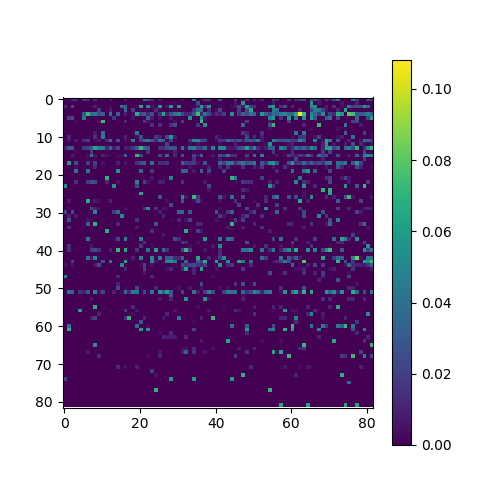
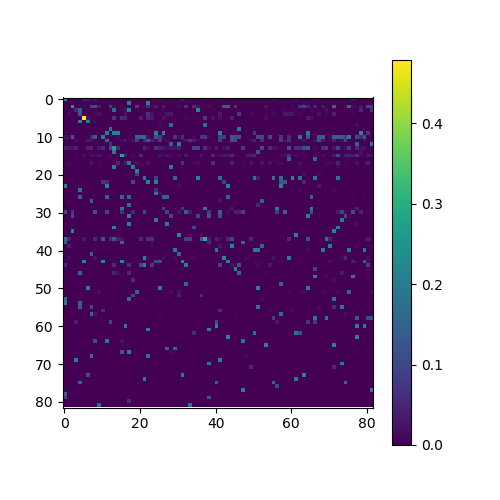
remove virtual events

diff --git a/model/EndogenousImpactFamily.py b/model/EndogenousImpactFamily.py
@@ -54,12 +54,10 @@ class NaiveEndogenousImpact(BasicEndogenousImpact):
         self.num_type = num_type
         self.dim_embedding = num_type
         for m in range(self.num_base):
-            emb = nn.Embedding(self.num_type, self.dim_embedding, padding_idx=0)
+            emb = nn.Embedding(self.num_type, self.dim_embedding)
             emb.weight = nn.Parameter(
-                torch.cat([torch.zeros(self.num_type, 1),
-                           torch.FloatTensor(self.num_type, self.dim_embedding - 1).uniform_(0.01 / self.dim_embedding,
-                                                                                             1 / self.dim_embedding)],
-                          dim=1))
+                           torch.FloatTensor(self.num_type, self.dim_embedding).uniform_(0.01 / self.dim_embedding,
+                                                                                         1 / self.dim_embedding))
             if m == 0:
                 self.basis = nn.ModuleList([emb])
             else:
@@ -214,20 +212,16 @@ class FactorizedEndogenousImpact(BasicEndogenousImpact):
         self.num_type_v = num_type
         self.dim_embedding = dim_embedding
         for m in range(self.num_base):
-            emb_u = nn.Embedding(self.num_type_u, self.dim_embedding, padding_idx=0)
-            emb_v = nn.Embedding(self.num_type_v, self.dim_embedding, padding_idx=0)
+            emb_u = nn.Embedding(self.num_type_u, self.dim_embedding)
+            emb_v = nn.Embedding(self.num_type_v, self.dim_embedding)
             emb_u.weight = nn.Parameter(
-                torch.cat([torch.zeros(1, self.dim_embedding),
-                           torch.FloatTensor(self.num_type_u-1, self.dim_embedding).uniform_(
+                           torch.FloatTensor(self.num_type_u, self.dim_embedding).uniform_(
                                0.01 / self.dim_embedding,
-                               1 / self.dim_embedding)],
-                          dim=0))
+                               1 / self.dim_embedding))
             emb_v.weight = nn.Parameter(
-                torch.cat([torch.zeros(1, self.dim_embedding),
-                           torch.FloatTensor(self.num_type_v-1, self.dim_embedding).uniform_(
+                           torch.FloatTensor(self.num_type_v, self.dim_embedding).uniform_(
                                0.01 / self.dim_embedding,
-                               1 / self.dim_embedding)],
-                          dim=0))
+                               1 / self.dim_embedding))
             if m == 0:
                 self.basis_u = nn.ModuleList([emb_u])
                 self.basis_v = nn.ModuleList([emb_v])
@@ -383,23 +377,19 @@ class LinearEndogenousImpact(BasicEndogenousImpact):
         self.num_type = num_type
         self.dim_embedding = dim_feature
         for m in range(self.num_base):
-            emb = nn.Embedding(self.num_type, self.dim_embedding, padding_idx=0)
+            emb = nn.Embedding(self.num_type, self.dim_embedding)
             emb.weight = nn.Parameter(
-                torch.cat([torch.zeros(1, self.dim_embedding),
-                           torch.FloatTensor(self.num_type-1, self.dim_embedding).uniform_(0.01 / self.dim_embedding,
-                                                                                           1 / self.dim_embedding)],
-                          dim=0))
+                           torch.FloatTensor(self.num_type, self.dim_embedding).uniform_(0.01 / self.dim_embedding,
+                                                                                         1 / self.dim_embedding))
             if m == 0:
                 self.basis = nn.ModuleList([emb])
             else:
                 self.basis.append(emb)
 
-        self.emb_event = nn.Embedding(self.num_type, self.dim_embedding, padding_idx=0)
+        self.emb_event = nn.Embedding(self.num_type, self.dim_embedding)
         self.emb_event.weight = nn.Parameter(
-            torch.cat([torch.zeros(1, self.dim_embedding),
-                       torch.FloatTensor(self.num_type-1, self.dim_embedding).uniform_(0.01 / self.dim_embedding,
-                                                                                       1 / self.dim_embedding)],
-                      dim=0))
+                       torch.FloatTensor(self.num_type, self.dim_embedding).uniform_(0.01 / self.dim_embedding,
+                                                                                       1 / self.dim_embedding))
 
         if self.activation == 'relu':
             self.act = nn.ReLU()
@@ -572,12 +562,10 @@ class BilinearEndogenousImpact(BasicEndogenousImpact):
             else:
                 self.basis.append(emb)
 
-        self.emb_event = nn.Embedding(self.num_type, self.dim_embedding, padding_idx=0)
+        self.emb_event = nn.Embedding(self.num_type, self.dim_embedding)
         self.emb_event.weight = nn.Parameter(
-            torch.cat([torch.zeros(1, self.dim_embedding),
-                       torch.FloatTensor(self.num_type - 1, self.dim_embedding).uniform_(0.01 / self.dim_embedding,
-                                                                                         1 / self.dim_embedding)],
-                      dim=0))
+                       torch.FloatTensor(self.num_type, self.dim_embedding).uniform_(0.01 / self.dim_embedding,
+                                                                                     1 / self.dim_embedding))
 
         if self.activation == 'relu':
             self.act = nn.ReLU()

diff --git a/model/ExogenousIntensityFamily.py b/model/ExogenousIntensityFamily.py
@@ -46,12 +46,10 @@ class NaiveExogenousIntensity(BasicExogenousIntensity):
 
         self.num_type = num_type
         self.dim_embedding = 1
-        self.emb = nn.Embedding(self.num_type, self.dim_embedding, padding_idx=0)
+        self.emb = nn.Embedding(self.num_type, self.dim_embedding)
         self.emb.weight = nn.Parameter(
-            torch.cat([torch.zeros(1, self.dim_embedding),
-                       torch.FloatTensor(self.num_type - 1, self.dim_embedding).uniform_(0.01 / self.dim_embedding,
-                                                                                         1 / self.dim_embedding)],
-                      dim=0))
+                       torch.FloatTensor(self.num_type, self.dim_embedding).uniform_(0.01 / self.dim_embedding,
+                                                                                     1 / self.dim_embedding))
         if self.activation == 'relu':
             self.act = nn.ReLU()
         elif self.activation == 'softplus':
@@ -133,12 +131,10 @@ class LinearExogenousIntensity(BasicExogenousIntensity):
         self.dim_embedding = dim_feature
         self.num_seq = num_seq
 
-        self.emb = nn.Embedding(self.num_type, self.dim_embedding, padding_idx=0)
+        self.emb = nn.Embedding(self.num_type, self.dim_embedding)
         self.emb.weight = nn.Parameter(
-            torch.cat([torch.zeros(1, self.dim_embedding),
-                       torch.FloatTensor(self.num_type - 1, self.dim_embedding).uniform_(0.01 / self.dim_embedding,
-                                                                                         1 / self.dim_embedding)],
-                      dim=0))
+                       torch.FloatTensor(self.num_type, self.dim_embedding).uniform_(0.01 / self.dim_embedding,
+                                                                                     1 / self.dim_embedding))
         self.emb_seq = nn.Embedding(self.num_seq, self.dim_embedding)
         self.emb_seq.weight = nn.Parameter(
             torch.FloatTensor(self.num_seq, self.dim_embedding).uniform_(0.01 / self.dim_embedding,
@@ -245,16 +241,14 @@ class NeuralExogenousIntensity(BasicExogenousIntensity):
         self.dim_hidden = dim_hidden
         self.num_seq = num_seq
 
-        self.emb = nn.Embedding(self.num_type, self.dim_embedding, padding_idx=0)
+        self.emb = nn.Embedding(self.num_type, self.dim_embedding)
         self.emb.weight = nn.Parameter(
-            torch.cat([torch.zeros(1, self.dim_embedding),
                        torch.FloatTensor(self.num_type - 1, self.dim_embedding).uniform_(0.01 / self.dim_embedding,
-                                                                                         1 / self.dim_embedding)],
-                      dim=0))
+                                                                                         1 / self.dim_embedding))
         self.emb_seq = nn.Embedding(self.num_seq, self.dim_embedding)
         self.emb_seq.weight = nn.Parameter(
-            torch.cat(torch.FloatTensor(self.num_seq, self.dim_embedding).uniform_(0.01 / self.dim_embedding,
-                                                                                   1 / self.dim_embedding)))
+            torch.FloatTensor(self.num_seq, self.dim_embedding).uniform_(0.01 / self.dim_embedding,
+                                                                                   1 / self.dim_embedding))
         self.softplus = nn.Softplus()
         self.linear1 = nn.Linear(self.dim_embedding, self.dim_hidden)
         self.linear2 = nn.Linear(self.dim_feature, self.dim_hidden)

diff --git a/preprocess/DataIO.py b/preprocess/DataIO.py
@@ -45,15 +45,15 @@ def load_sequences_csv(file_name: str, domain_names: Dict):
                 'sequences': []}
 
     df = pd.read_csv(file_name)
-    type2idx = {'<virtual>': 0}
-    idx2type = {0: '<virtual>'}
+    type2idx = {}
+    idx2type = {}
     seq2idx = {}
     idx2seq = {}
 
     logger.info('Count the number of sequences...')
     start = time.time()
     seq_idx = 0
-    type_idx = 1
+    type_idx = 0
     for i, row in df.iterrows():
         seq_name = str(row[domain_names['seq_id']])
         event_type = str(row[domain_names['event']])
@@ -75,7 +75,7 @@ def load_sequences_csv(file_name: str, domain_names: Dict):
         if i % 10000 == 0:
             logger.info('{} events have been processed... Time={}ms.'.format(i, round(1000*(time.time() - start))))
     logger.info('Done! {} sequences with {} event types are found in {}ms'.format(
-        seq_idx+1, type_idx, round(1000*(time.time() - start))))
+        seq_idx+1, type_idx+1, round(1000*(time.time() - start))))
 
     logger.info('Build proposed database for the sequences...')
     start2 = time.time()

diff --git a/preprocess/DataOperation.py b/preprocess/DataOperation.py
@@ -398,8 +398,9 @@ class EventSampler(Dataset):
             t_start = seq_i['t_start']
             for j in range(len(events)):
                 target = events[j]
-                former = np.zeros((memorysize,), dtype=np.int)
-
+                # former = np.zeros((memorysize,), dtype=np.int)
+                former = np.random.permutation(len(self.database['type2idx']))
+                former = former[:memorysize]
                 target_t = times[j]
                 former_t = t_start * np.ones((memorysize,))
 
@@ -527,7 +528,9 @@ class SequenceSampler(Dataset):
                 former = events
                 former_t = times
             else:
-                former = np.zeros((memorysize,), dtype=np.int)
+                # former = np.zeros((memorysize,), dtype=np.int)
+                former = np.random.permutation(len(self.database['type2idx']))
+                former = former[:memorysize]
                 former_t = t_start * np.ones((memorysize,))
 
                 if 0 < times.shape[0] < memorysize:

diff --git a/model/EndogenousImpact.py b/model/EndogenousImpact.py
@@ -30,12 +30,10 @@ class BasicEndogenousImpact(nn.Module):
         self.num_type = num_type
         self.dim_embedding = num_type
         for m in range(self.num_base):
-            emb = nn.Embedding(self.num_type, self.dim_embedding, padding_idx=0)
+            emb = nn.Embedding(self.num_type, self.dim_embedding)
             emb.weight = nn.Parameter(
-                torch.cat([torch.zeros(self.num_type, 1),
-                           torch.FloatTensor(self.num_type, self.dim_embedding - 1).uniform_(0.01 / self.dim_embedding,
-                                                                                             1 / self.dim_embedding)],
-                          dim=1))
+                           torch.FloatTensor(self.num_type, self.dim_embedding).uniform_(0.01 / self.dim_embedding,
+                                                                                         1 / self.dim_embedding))
             if m == 0:
                 self.basis = nn.ModuleList([emb])
             else:

diff --git a/model/ExogenousIntensity.py b/model/ExogenousIntensity.py
@@ -25,12 +25,10 @@ class BasicExogenousIntensity(nn.Module):
 
         self.num_type = num_type
         self.dim_embedding = 1
-        self.emb = nn.Embedding(self.num_type, self.dim_embedding, padding_idx=0)
+        self.emb = nn.Embedding(self.num_type, self.dim_embedding)
         self.emb.weight = nn.Parameter(
-            torch.cat([torch.zeros(1, self.dim_embedding),
-                       torch.FloatTensor(self.num_type - 1, self.dim_embedding).uniform_(0.01 / self.dim_embedding,
-                                                                                         1 / self.dim_embedding)],
-                      dim=0))
+                       torch.FloatTensor(self.num_type, self.dim_embedding).uniform_(0.01 / self.dim_embedding,
+                                                                                     1 / self.dim_embedding))
 
     def print_info(self):
         """

diff --git a/example/demo_linearHawkes.py b/example/demo_linearHawkes.py
@@ -14,11 +14,11 @@ from preprocess.DataOperation import data_info, EventSampler, enumerate_all_even
 
 if __name__ == '__main__':
     # hyper-parameters
-    memory_size = 3
+    memory_size = 2
     batch_size = 128
     use_cuda = True
     use_cuda = use_cuda and torch.cuda.is_available()
-    seed = 1
+    seed = 2
     torch.manual_seed(seed)
     if use_cuda:
         torch.cuda.manual_seed(seed)

diff --git a/example/demo_featureHawkes3.py b/example/demo_featureHawkes3.py
@@ -15,7 +15,7 @@ from preprocess.DataOperation import data_info, EventSampler, enumerate_all_even
 if __name__ == '__main__':
     # hyper-parameters
     memory_size = 3
-    batch_size = 128
+    batch_size = 64
     use_cuda = True
     use_cuda = use_cuda and torch.cuda.is_available()
     seed = 1
